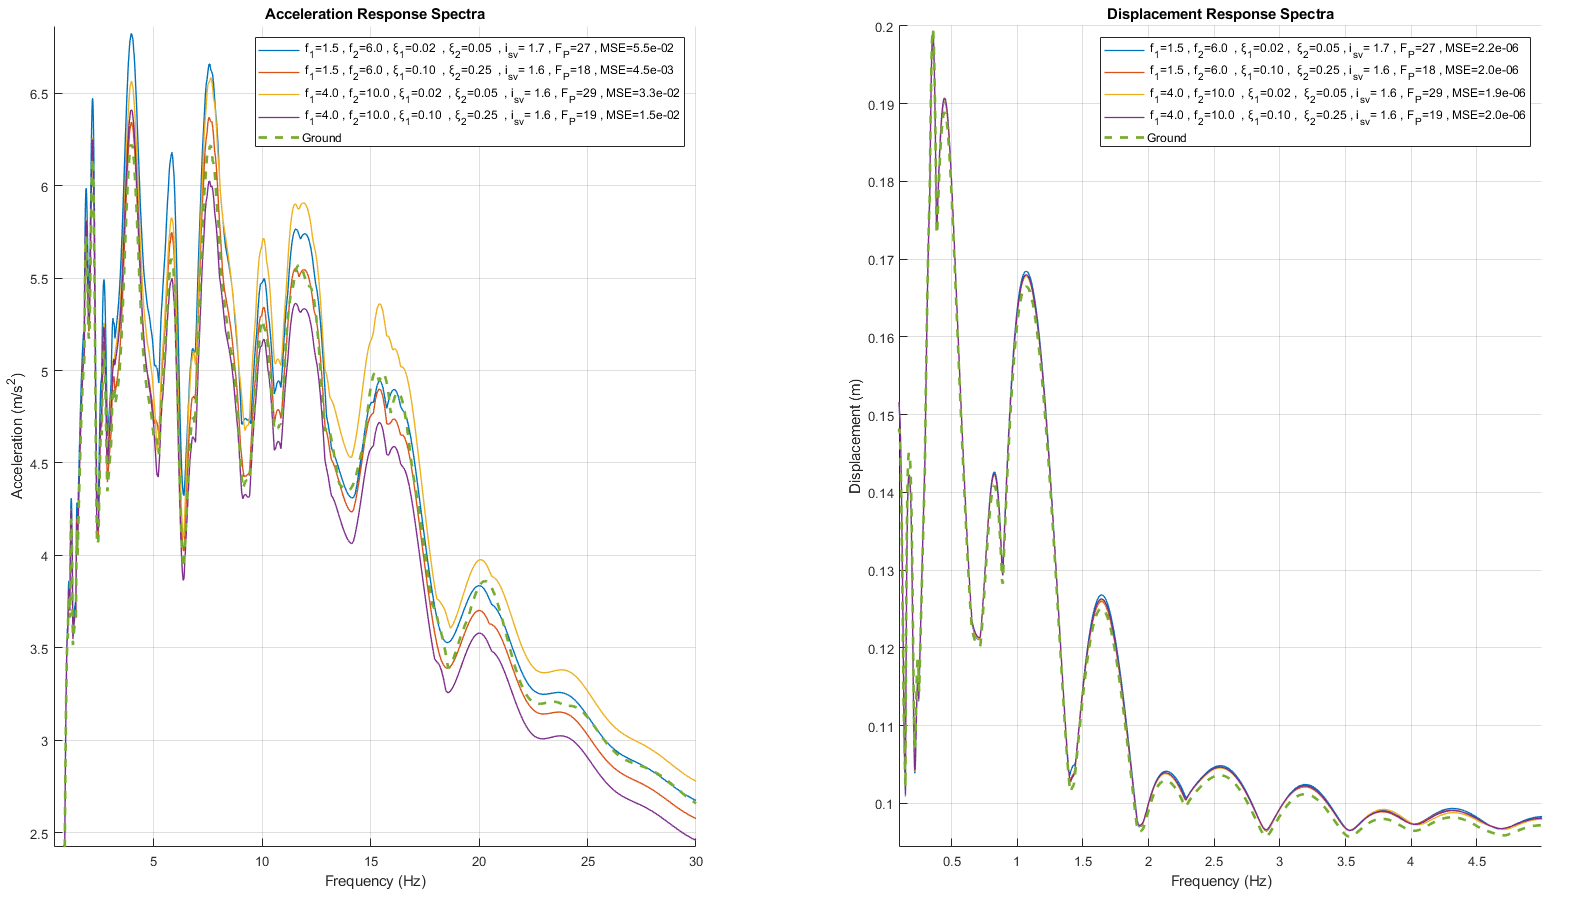
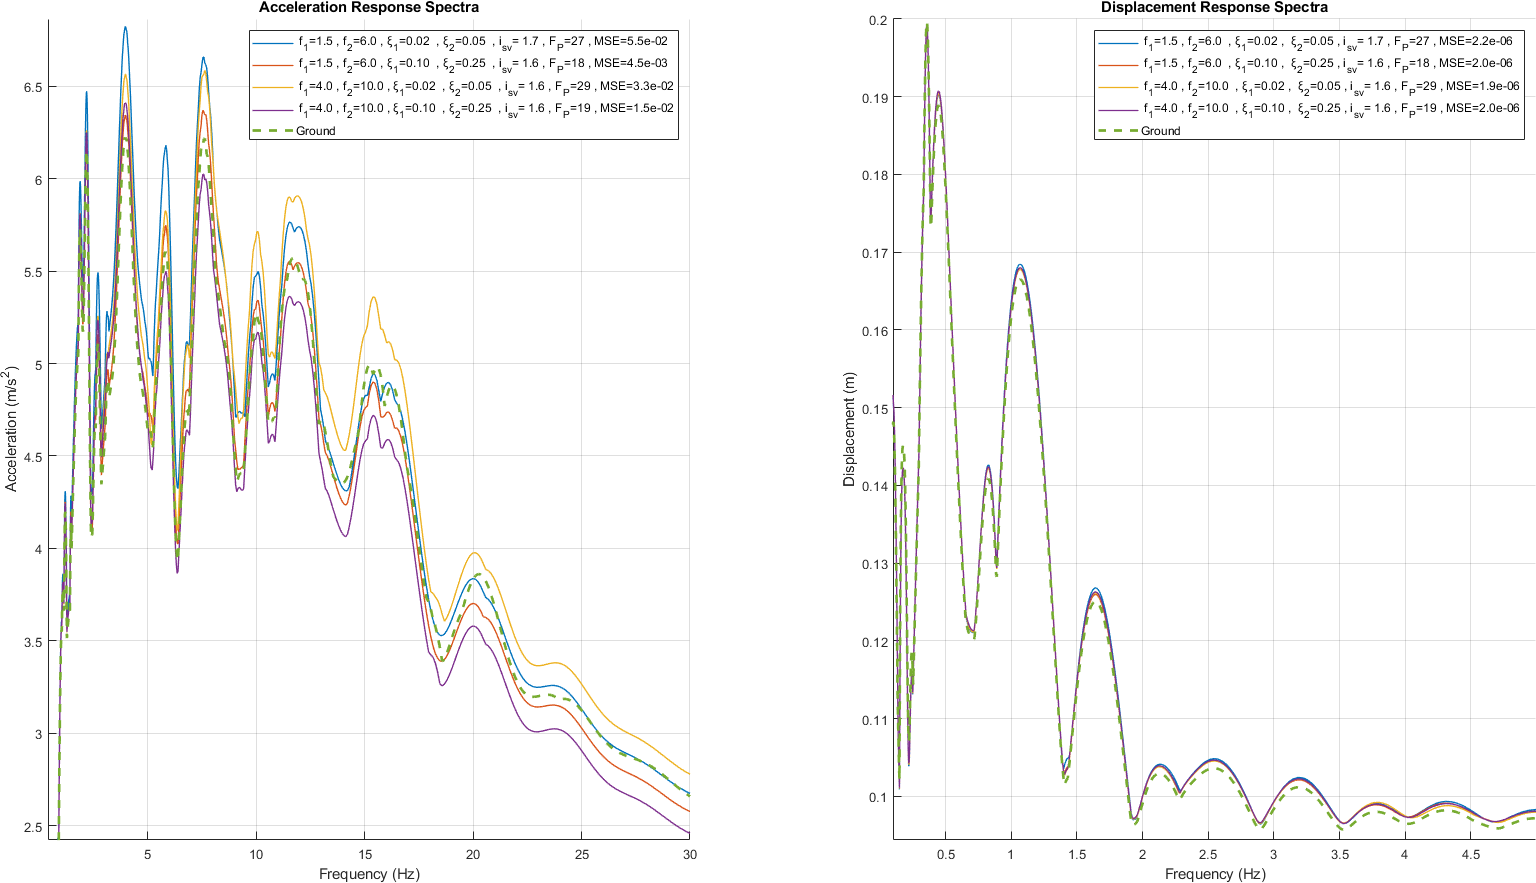
commit

diff --git a/Report/LaTeX_Controlo_de_Plataforma_Sismica/main.tex b/Report/LaTeX_Controlo_de_Plataforma_Sismica/main.tex
@@ -80,6 +80,8 @@
 \renewcommand{\baselinestretch}{1.5}
 \AtBeginEnvironment{minipage}{\renewcommand{\baselinestretch}{1.5}\normalsize}
 
+\AtBeginEnvironment{itemize}{\singlespacing}
+\AtEndEnvironment{itemize}{\onehalfspacing}
 
 \raggedbottom
 %%%%%%%%%%%%%%%%%%%%%%%%%%%%%%%%%%%%%%%%%%%%%%%%%%%%%%%%%%%%%%%%%%%%%%%%%%%%%%%%%%%%%%%%%
@@ -241,7 +243,7 @@ The results indicate that both the PID-F and LQI controller offer superior perfo
 \addcontentsline{toc}{section}{List of Tables}
 \listoftables % Tabelas
 
-\cleardoublepage 
+%\cleardoublepage 
 \phantomsection
 \addcontentsline{toc}{section}{List of Figures}
 \listoffigures %Figuras
@@ -398,7 +400,7 @@ It's relevance for this work lies in the fact that the performance of the seismi
 Figure \ref{fig_response_spectrum_schematic} helps us easily comprehend how a response spectrum is determined.  The peak amplitudes {\textcircled{\raisebox{-.9pt}{3}}}, from the response of  1-DoF mass-spring-damper systems with 5\% damping and different natural frequencies {\textcircled{\raisebox{-.9pt}{2}}}, to the seismic signal {\textcircled{\raisebox{-.9pt}{1}}}, are plotted for each natural frequency {\textcircled{\raisebox{-.9pt}{4}}}.
 
 \noindent
-\begin{minipage}{0.58\textwidth}\setlength{\parindent}{15pt}
+\begin{minipage}{0.5\textwidth}\setlength{\parindent}{15pt}
 
 
 % \vspace{5mm}
@@ -439,7 +441,7 @@ Some of its applications in Civil Engineering are:
 
 \end{minipage}
 \hfill
-\begin{minipage}{0.39\textwidth}
+\begin{minipage}{0.46\textwidth}
 \begin{figure}[H]
     \centering
     \includegraphics[width=\textwidth]{response_spectrum_schematic.png}
@@ -613,7 +615,7 @@ The hydraulic and control system supplier at LNEC, MTS Systems Corporation (MTS)
 
 \begin{figure}[H]
     \centering
-    \includegraphics[width=0.7\textwidth]{MTSsystems/OLI.png}
+    \includegraphics[width=\textwidth]{MTSsystems/OLI.png}
     \caption{Online Iteration (OLI)}
     \label{fig_OLI}
 \end{figure}
@@ -1620,7 +1622,7 @@ $m_T$ & Total mass $= m_p + m_{sp}$  & - \\ \hline
 \end{table}
 
 
-\subsection{Mathematical Model for LNEC Uniaxial Seismic Table with a Coupled 2DoF System}
+\subsection{Mathematical Model for LNEC Uniaxial Seismic Table with a Coupled 2DOF System}
 
 In order to determine a model for the shaking table with a coupled 2DOF systems, which will represent the essential dynamics of usual test specimens, firstly, the block diagram (in figure \ref{fig_clean_block_force_output}) containing only part of the system, which includes the controller, servo valve, and hydraulic actuator, was built:
 
@@ -1919,20 +1921,20 @@ Taking into consideration the test procedure at LNEC (figure \ref{fig_lnec_test_
 \end{minipage}
 \end{figure}
 
-Initially the simulations were run with the controller set as $G_c(s)=129.93$ V/m, which is the tune typically used at LNEC. Afterwards, a simulation was run with $G_c(s)$ in the form of a PID-F, as in equation \eqref{eq_pidf_in_s}:
-\begin{equation} \label{eq_pidf_in_s}
-    G_c(s) = K_p +  \frac{K_i}{s} +  \frac{K_d\cdot s}{T_f\cdot s + 1}
-\end{equation}
-
-Where the parameters $K_p, K_i, K_d$, and $T_f$, seen in table \ref{tab:pidf_params}, were computed using MATLAB's \textit{pidtune} function, with the tuning option \textit{'DesignFocus'} set to \textit{'reference-tracking'}. These results are labelled as "tuned" in figures \ref{fig_response_spectrum_of_3} through to \ref{fig_Platen_Displacement_Tracking_Error}. The code implementation can be found at the following GitHub repository \href{https://github.com/c-radicallis/Controlo_Plataforma_Sismica/blob/main/uniaxial_table_model/simulation_and_plotting.m}{location}.
-
+Initially the simulations were run with the controller set as $G_c(s)=129.93$ V/m, which is the tune typically used at LNEC. Afterwards, a simulation was run with controller in the form of a PID-F : $G_c(s) = K_p +  \frac{K_i}{s} +  \frac{K_d\cdot s}{T_f\cdot s + 1}$ ,
+% \begin{equation} \label{eq_pidf_in_s}
+%     G_c(s) = K_p +  \frac{K_i}{s} +  \frac{K_d\cdot s}{T_f\cdot s + 1}
+% \end{equation}
+where the parameters $K_p, K_i, K_d$, and $T_f$, seen in table \ref{tab:pidf_params}, were computed using MATLAB's \textit{pidtune} function, with the tuning option \textit{'DesignFocus'} set to \textit{'reference-tracking'}. These results are labelled as "tuned" in figures \ref{fig_response_spectrum_of_3} through to \ref{fig_Platen_Displacement_Tracking_Error}. The code implementation can be found at the following GitHub repository \href{https://github.com/c-radicallis/Controlo_Plataforma_Sismica/blob/main/uniaxial_table_model/simulation_and_plotting.m}{location}.
 
 \begin{table}[H]
     \centering
+\begin{minipage}{0.48\textwidth} %0.37
+        \centering
     \caption{Tuned PID-F controller parameters}
     \begin{tabular}{ccc}
         \hline
-        Parameter & Value & Unit \\
+        Parameter & Value & Units \\
         \hline
         $K_p$ & $1540$ & $V/m$ \\
         $K_i$ & $1670$ & $V/(m \, s)$ \\
@@ -1941,6 +1943,22 @@ Where the parameters $K_p, K_i, K_d$, and $T_f$, seen in table \ref{tab:pidf_par
         \hline
     \end{tabular}
     \label{tab:pidf_params}
+\end{minipage}
+\hspace{5mm}
+\begin{minipage}{0.46\textwidth} 
+    \centering
+    \caption{Mean squared error for response spectra of platen, with the seismic signal ground response spectra as target.}
+    \label{tab:mse_rs}
+    \begin{tabular}{ccc}
+        \hline
+        Controller & Acceleration  & Displacement \\[-2mm]
+                   & MSE ($m/s^2$) & MSE ($m$)    \\
+        \hline
+        Baseline & $1.78$               & $1.94 \cdot 10^{-6}$ \\
+        Tuned    & $3.27 \cdot 10^{-2}$ & $1.88 \cdot 10^{-6}$ \\
+        \hline
+    \end{tabular}
+\end{minipage}
 \end{table}
 
 %\pagebreak
@@ -1949,19 +1967,19 @@ The mean squared error (MSE) of the platen response spectrum,  having the ground
 
 The acceleration response spectrum mean squared error for the tuned platform is significantly reduced compared to the standard tune (Table \ref{tab:mse_rs}), however, it exceeds the desired response spectrum for the entire frequency spectrum (figure \ref{fig_response_spectrum_of_3}).
 
-\begin{table}[H]
-    \centering
-    \caption{Mean squared error for response spectra of platen, with the seismic signal ground response spectra as target.}
-    \label{tab:mse_rs}
-    \begin{tabular}{ c c c }
-        \hline
-        Controller & Acceleration MSE ($m/s^2$) & Displacement MSE ($m$) \\
-        \hline
-        Baseline & $1.78$               & $1.94 \cdot 10^{-6}$ \\
-        Tuned    & $3.27 \cdot 10^{-2}$ & $1.88 \cdot 10^{-6}$ \\
-        \hline
-    \end{tabular}
-\end{table}
+% \begin{table}[H]
+%     \centering
+%     \caption{Mean squared error for response spectra of platen, with the seismic signal ground response spectra as target.}
+%     \label{tab:mse_rs}
+%     \begin{tabular}{ c c c }
+%         \hline
+%         Controller & Acceleration MSE ($m/s^2$) & Displacement MSE ($m$) \\
+%         \hline
+%         Baseline & $1.78$               & $1.94 \cdot 10^{-6}$ \\
+%         Tuned    & $3.27 \cdot 10^{-2}$ & $1.88 \cdot 10^{-6}$ \\
+%         \hline
+%     \end{tabular}
+% \end{table}
 
 In figures \ref{fig_Platen_Acceleration} to \ref{fig_Platen_Displacement_zoom}, label "MSE" refers to the  respective mean squared error when using the standard controller, and "Tuned MSE" refers to the respective mean squared error when using the tuned PIDF controller. All values are presented in SI units, in this case, $m/s^2$ for the acceleration response spectrum MSE, and $m$ for the displacement response spectrum MSE.
 
@@ -2042,104 +2060,94 @@ The detailed view in figures \ref{fig_Platen_Acceleration_zoom} and \ref{fig_Pla
 
 \subsubsection{Tuned PID-F Performance Sensitivity to Test Specimen Parameters} \label{Tuned PID-F Performance Sensitivity}%Analysis of Tuned PIDF 
 
-The mass, modal frequencies, and damping of the specimens coupled to the seismic table have an impact on how well it is able to track the reference. In this section, we will analyse how the seismic table with the tuned PIDF performs for different damping, modal frequencies, and mass of the test specimen. The controller 
+The mass, modal frequencies, and damping of the specimens coupled to the seismic table have an impact on how well it is able to track the reference. In this section, we will analyse how the seismic table performs for different damping, modal frequencies, and mass of the test specimen with the tuned PID-F controller (which is tuned for each case).
 
-The legend of figures \ref{Resp_Spectre_low_high_freq_and_damp} through to \ref{Resp_Spectre_f1_2415}, shows the modal properties of the specimen on test, the maximum absolute values of the input to the servo-valve $i_{sv}$ (in volts) and force applied by the actuator (in kilo newtons), and the mean square error for the respective response spectrum.
+Specimens with % higher modal frequencies ($f_1=4$ Hz \& $f_2=10$ Hz) and 
+lower damping ($\zeta_1=0.02$ \& $\zeta_2=0.05$) result in response spectra which exceeds the desired one over the entire frequency spectrum, while structures with higher damping ($\zeta_1=0.1$ \& $\zeta_2=0.25$) result in response spectra which fall short of the desired one (figures \ref{Resp_Spectre_low_high_freq_and_damp} through to \ref{Resp_Spectre_f1_2415}), and this translates to trend observed in figure \ref{fig_MSE_vs_damping}.
 
 \begin{figure}[H]
-    \centering
-    \includegraphics[width=1\linewidth]{MSE_Resp_Spectre/Resp_Spectre_low_high_freq_and_damp_cut.png}
-    \caption{Response spectra for $m_1=m_2=2 \text{ ton}$, and different modal frequencies and damping}
-    \label{Resp_Spectre_low_high_freq_and_damp}
+\centering
+    \begin{subfigure}{0.64\textwidth}
+        \includegraphics[width=\textwidth]{MSE_Zeta/Surf_Zeta_LowFreq_iso_cut.jpg}
+        \caption{Isometric view}
+        \label{fig:first}
+    \end{subfigure}
+    \hfill
+    \begin{subfigure}{0.35\textwidth}
+        \centering
+        \includegraphics[width=\textwidth]{MSE_Zeta/Surf_Zeta_LowFreq_TopView_cut.png}
+        \caption{Top view}
+        \label{fig:second}
+    \end{subfigure}
+\caption{Acceleration response spectra MSE ($m/s^2$) vs damping ($\zeta_1$ and $\zeta_2$), with $m_1=m_2=2\text{ ton, }f_1=1.5 Hz, f_2=6 Hz$}
+\label{fig_MSE_vs_damping}
 \end{figure}
 
+The effect of modal frequencies on the performance of the seismic table (shown in figure \ref{fig_MSE_vs_modal_freqs}) is unclear in this analysis , most likely because the analysis was performed for a single seismic signal, and it depends heavily on the specific combination of frequency content of the seismic signal, and the closed-loop response of the system. It is expected that seismic signals with more power in frequencies close to the modal frequencies will result in an over-shoot of the target response spectra (especially if damping is low), if the closed-loop gain is close to unitary in that range, but if none of these conditions are met, for example, when the modal frequencies of the specimen are mismatched with the frequency content of the seismic signal, or they are beyond the bandwidth of the closed-loop, than it is expected that the response spectra will closely match the target, or, in the second case, undershoot.
+
 \begin{figure}[H]
     \centering
-    \includegraphics[width=1\linewidth]{MSE_Resp_Spectre/Resp_Spectre_f2=10_cut.png}
-    \caption{Response spectra for $m_1=m_2=2\text{ ton}$, with $f_2=10$ Hz}
-    %\label{}
+    \begin{subfigure}{\textwidth}
+        \centering
+        \includegraphics[width=1\linewidth]{PID_MSE/PID_MSE_Surface_frequency_lowDamp_iso_cut.jpg}
+        \caption{Low damping: $\zeta_1=0.02, \zeta_2=0.05$ }
+        %\label{}
+    \end{subfigure}
+    \\
+    \begin{subfigure}{0.49\textwidth}
+        \centering
+        \includegraphics[width=1\linewidth]{PID_MSE/PID_MSE_Surface_frequency_lowDamp_cut.jpg}
+        \caption{Low damping: $\zeta_1=0.02, \zeta_2=0.05$ }
+        %\label{}
+    \end{subfigure}
+    \hfill
+    \begin{subfigure}{0.49\textwidth}
+        \centering
+        \includegraphics[width=1\linewidth]{PID_MSE/PID_MSE_Surface_frequency_highDamp_top.jpg}
+        \caption{High damping: $\zeta_1=0.1, \zeta_2=0.25$ }
+        %\label{}
+\end{subfigure}
+\caption{Acceleration response spectra MSE vs modal frequencies ($f_1$ and $f_2$), with $m_1=m_2=2\text{ ton }$}
+\label{fig_MSE_vs_modal_freqs}
 \end{figure}
 
-\begin{figure}[H]
-    \centering
-    \includegraphics[width=1\linewidth]{MSE_Resp_Spectre/Resp_Spectre_f1_2415_cut.png}
-    \caption{Response spectra for $m_1=m_2=2\text{ ton}$, and modal frequencies which are close together ($f_2 \approx2.415\cdot f_1$) (see figure \ref{fig_close_modal_freqs})}
-    \label{Resp_Spectre_f1_2415}
-\end{figure}
-
+In figures \ref{Resp_Spectre_low_high_freq_and_damp} through to \ref{Resp_Spectre_f1_2415} the response spectra are shown, and the same trends are observed. The legend shows the modal properties of the specimen under analysis, the maximum absolute values of the input to the servo-valve $i_{sv}$ (in volts) and force applied by the actuator (in kilo newtons), and the mean square error for the respective response spectrum (in their respective SI units).
 
 
 \begin{figure}[H]
-    \centering
-    \includegraphics[width=1\linewidth]{MSE_Zeta/Surf_Zeta_LowFreq_IsoView.png}
-    \caption{Response Spectra MSE vs $\zeta_1$ and $\zeta_2$, with $m_1=m_2=2\text{ ton, }f_1=1.5 Hz, f_2=6 Hz$}
-    %\label{}
-\end{figure}
+\begin{minipage}{0.49\textwidth}\setlength{\parindent}{15pt}
+    In figure \ref{fig_close_modal_freqs}, where the modal frequencies are as tightly spaced as possible, for the acceleration spectra MSE a trend reversal is observed, where for $\zeta_2 \approx 0.1$ the MSE is lowest, and then increases for both lower and higher damping. This consistent with what is observed in figures \ref{Resp_Spectre_low_high_freq_and_damp} through to \ref{Resp_Spectre_f1_2415}, as it results from under-shooting and over-shooting the target response spectra from low and high damping, respectively.
 
-
-\begin{figure}[H]
-\begin{minipage}{0.45\textwidth}
-    \centering
-    \includegraphics[width=\linewidth]{MSE_Zeta/Surf_Zeta_LowFreq_TopView.png}
-    \caption{Response Spectra MSE vs $\zeta_1$ and $\zeta_2$, with $m_1=m_2=2\text{ ton, }f_1=1.5 Hz, f_2=6 Hz$}
-    %\label{}
+    For the high modal frequencies in figure \ref{fig_high_modal_freqs}, the response spectrum MSE increases abruptly for $\zeta_2 < 0.14 - 0.8\cdot \zeta_1 $, but remains mostly unchanged inside the two regions separated by that line. This shows that tiny differences in the damping of the specimen can translate to significant differences in the response spectra.
 \end{minipage}
 \hfill
-\begin{minipage}{0.45\textwidth}
-    \centering
-    \includegraphics[width=\linewidth]{PID_MSE/stiffness_solutions.png}
-    \caption{For the 2DOF model (fig. \ref{schematic_2dof}), the modal frequency $f_2$ must be greater than $2.415 \times f_1$  (Equation \eqref{eq_modal_frequencies})}
-    \label{fig_close_modal_freqs}
-\end{minipage}
-\end{figure}
-
-\begin{figure}[H]
-\begin{minipage}{0.45\textwidth}
+\begin{minipage}{0.49\textwidth}
     \centering
     \includegraphics[width=\linewidth]{MSE_Zeta/MSE vs Zeta (m_i=2.0,f_1=4.0, f_2=10.0)_old.png}
-    \caption{Response Spectra MSE vs $\zeta_1$ and $\zeta_2$, with $m_1=m_2=2\text{ ton, }f_1=4 Hz, f_2=10 Hz$. For high modal frequencies, the response spectrum MSE increases abruptly for $\zeta_2 > 0.14 - 0.8\cdot \zeta_1 $, but remains mostly unchanged otherwise.}
-    %\label{fig:enter-label}
-\end{minipage}
-\hfill
-\begin{minipage}{0.45\textwidth}
-    \centering
-    \includegraphics[width=1\linewidth]{MSE_Zeta/MSE vs Zeta (m_i=2.0,f_1=3.0, f_2=7.2).png}
-    \caption{Response Spectra MSE vs $\zeta_1$ and $\zeta_2$, with $m_1=m_2=2\text{ ton, }f_1=3 Hz, f_2=7.2 Hz$ (modal frequencies close together)}
-    %\label{fig:enter-label}
+    \caption{Acceleration response spectra MSE vs damping ($\zeta_1$ and $\zeta_2$), with $m_1=m_2=2\text{ ton, }f_1=4 Hz, f_2=10 Hz$. }
+    \label{fig_high_modal_freqs}
 \end{minipage}
 \end{figure}
-
 
 \begin{figure}[H]
-    \centering
-    \includegraphics[width=1\linewidth]{PID_MSE/PID_MSE_Surface_frequency_blue_red_isoview_lowDamp.png}
-    \caption{Response Spectra MSE vs $f_1$ and $f_2$, with $m_1=m_2=2\text{ ton, } \zeta_1=0.02, \zeta_2=0.05$ (low damping)}
-    %\label{}
+\centering
+    \begin{subfigure}{0.49\textwidth}
+        \centering
+        \includegraphics[width=\linewidth]{PID_MSE/stiffness_solutions.png}
+        \caption{For the 2DOF model (fig. \ref{schematic_2dof}), the modal frequency $f_2$ must be greater than $2.415 \times f_1$  (Equation \eqref{eq_modal_frequencies})}
+        \label{fig_k_for_close_modal_freqs}
+    \end{subfigure}
+    \hfill
+    \begin{subfigure}{0.49\textwidth}
+        \centering
+        \includegraphics[width=1\linewidth]{MSE_Zeta/MSE vs Zeta (m_i=2.0,f_1=3.0, f_2=7.2).png}
+        \caption{Acceleration response spectra MSE vs damping ($\zeta_1$ and $\zeta_2$), with $m_1=m_2=2\text{ ton, }f_1=3 Hz, f_2=7.2 Hz$}
+        %\label{fig:enter-label}
+    \end{subfigure}
+\caption{Analysis for modal frequencies which are close together}
+\label{fig_close_modal_freqs}
 \end{figure}
 
-
-\begin{figure}[H]
-\begin{minipage}{0.44\textwidth}
-    \centering
-    \includegraphics[width=1\linewidth]{PID_MSE/PID_MSE_Surface_frequency_blue_red_topview_lowDamp.png}
-    \caption{Response Spectra MSE vs $f_1$ and $f_2$, with $m_1=m_2=2\text{ ton, } \zeta_1=0.02, \zeta_2=0.05$ (low damping)}
-    %\label{}
-\end{minipage}
-\hfill
-\begin{minipage}{0.45\textwidth}
-    \centering
-    \includegraphics[width=1\linewidth]{MSE_Freq/MSE vs Freq (m_i=2.0,zeta1=0.10,zeta2=0.25)_topview.png}
-    \caption{Response Spectra MSE vs $f_1$ and $f_2$, with $m_1=m_2=2\text{ ton, } \zeta_1=0.1, \zeta_2=0.25$ (high damping)}
-    %\label{}
-\end{minipage}
-\end{figure}
-
-
-
-Structures with % higher modal frequencies ($f_1=4$ Hz \& $f_2=10$ Hz) and 
-lower damping ($\zeta_1=0.02$ \& $\zeta_2=0.05$) result in response spectra which exceeds the desired one over the entire frequency spectrum, while structures with higher damping ($\zeta_1=0.1$ \& $\zeta_2=0.25$) result in response spectra which fall short of the desired one.
-
-The effect of modal frequencies on the performance of the seismic table is unclear, and likely depends heavily on the frequency content of the seismic signal.
 
 
 %\clearpage
@@ -2871,12 +2879,89 @@ The final step of the proposed methodology consists in implementing the optimize
 
 
 \clearpage
-% BIBLIOGRAFIA
+%% BIBLIOGRAFIA
 \bibliographystyle{abbrvnat}
 \setcitestyle{authoryear} %Citation-related commands open={((},close={))}
 \bibliography{bibfile}
 
+%%  APPENDIX
 \appendix
+
+\chapter{Tuned PID-F Performance Sensitivity to Test Specimen Parameters}\label{appendix:Tuned PID-F Performance Sensitivity to Test Specimen Parameters}
+
+\begin{table}[H]
+\centering
+\caption{Parameter combinations and corresponding MSE values in figure \ref{Resp_Spectre_low_high_freq_and_damp}}
+\begin{tabular}{cccccccc}
+\hline
+$f_1$ (Hz) & $f_2$ (Hz) & $\xi_1$ & $\xi_2$ & $i_{sv}$ (v) & $F_P$ (kN) & Accel. MSE ($m/s^2$) & Disp. MSE ($m$)\\ 
+\hline
+1.5 & 6.0  & 0.02 & 0.05 & 1.7 & 27 & $5.5\times10^{-2}$ &  $2.2\times10^{-6}$  \\
+1.5 & 6.0  & 0.10 & 0.25 & 1.6 & 18 & $4.5\times10^{-3}$ &  $2.0\times10^{-6}$  \\
+4.0 & 10.0 & 0.02 & 0.05 & 1.6 & 29 & $3.3\times10^{-2}$ &  $1.9\times10^{-6}$  \\
+4.0 & 10.0 & 0.10 & 0.25 & 1.6 & 19 & $1.5\times10^{-2}$ &  $2.0\times10^{-6}$  \\
+\hline
+\end{tabular}
+\label{tab:Resp_Spectre_low_high_freq_and_damp}
+\end{table}
+
+\begin{figure}[H]
+    \centering
+    \includegraphics[width=1\linewidth]{MSE_Resp_Spectre/Resp_Spectre_low_high_freq_and_damp_cut.png}
+    \caption{Response spectra for $m_1=m_2=2 \text{ ton}$, and different modal frequencies and damping}
+    \label{Resp_Spectre_low_high_freq_and_damp}
+\end{figure}
+
+\pagebreak
+
+\begin{table}[H]
+\centering
+\caption{Parameter combinations and corresponding MSE values in figure \ref{Resp_Spectre_f2_10}}
+\begin{tabular}{cccccccc}
+\hline
+$f_1$ (Hz) & $f_2$ (Hz) & $\xi_1$ & $\xi_2$ & $i_{sv}$ (v) & $F_P$ (kN) & Acceleration MSE ($m/s^2$) & Displacement MSE ($m$)\\ 
+\hline
+1.5 & 10.0 & 0.02 & 0.05 & 1.7 & 28 & $6.0\times10^{-2}$ & $2.2\times10^{-6}$ \\
+1.5 & 10.0 & 0.10 & 0.25 & 1.6 & 18 & $4.5\times10^{-3}$ & $2.0\times10^{-6}$ \\
+4.0 & 10.0 & 0.02 & 0.05 & 1.6 & 29 & $3.3\times10^{-2}$ & $1.9\times10^{-6}$ \\
+4.0 & 10.0 & 0.10 & 0.25 & 1.6 & 19 & $1.5\times10^{-2}$ & $2.0\times10^{-6}$ \\
+\hline
+\end{tabular}
+\label{tab:Resp_Spectre_f2_10}
+\end{table}
+
+\begin{figure}[H]
+    \centering
+    \includegraphics[width=1\linewidth]{MSE_Resp_Spectre/Resp_Spectre_f2=10_cut.png}
+    \caption{Response spectra for $m_1=m_2=2\text{ ton}$, with $f_2=10$ Hz}
+    \label{Resp_Spectre_f2_10}
+\end{figure}
+
+\pagebreak
+
+\begin{table}[H]
+\centering
+\caption{Parameter combinations and corresponding MSE values in figure \ref{Resp_Spectre_f1_2415}}
+\begin{tabular}{cccccccc}
+\hline
+$f_1$ (Hz) & $f_2$ (Hz) & $\xi_1$ & $\xi_2$ & $i_{sv}$ (v) & $F_P$ (kN) & Acceleration MSE ($m/s^2$) & Displacement MSE ($m$)\\ 
+\hline
+2.5 & 6.0  & 0.02 & 0.05 & 1.6 & 19 & $4.7\times10^{-3}$ & $2.0\times10^{-6}$ \\
+2.5 & 6.0  & 0.10 & 0.25 & 1.6 & 16 & $1.1\times10^{-2}$ & $2.0\times10^{-6}$ \\
+4.1 & 10.0 & 0.02 & 0.05 & 1.6 & 24 & $3.6\times10^{-2}$ & $1.8\times10^{-6}$ \\
+4.1 & 10.0 & 0.10 & 0.25 & 1.6 & 16 & $1.5\times10^{-2}$ & $2.0\times10^{-6}$ \\
+\hline
+\end{tabular}
+\label{tab:Resp_Spectre_f1_2415}
+\end{table}
+
+\begin{figure}[H]
+    \centering
+    \includegraphics[width=1\linewidth]{MSE_Resp_Spectre/Resp_Spectre_f1_2415_cut.png}
+    \caption{Response spectra for $m_1=m_2=2\text{ ton}$, and modal frequencies which are close together ($f_2 \approx2.415\cdot f_1$) (see figure \ref{fig_close_modal_freqs})}
+    \label{Resp_Spectre_f1_2415}
+\end{figure}
+
 
 \chapter{MTS Systems Control Strategies}\label{section:MTS_strategies}
 